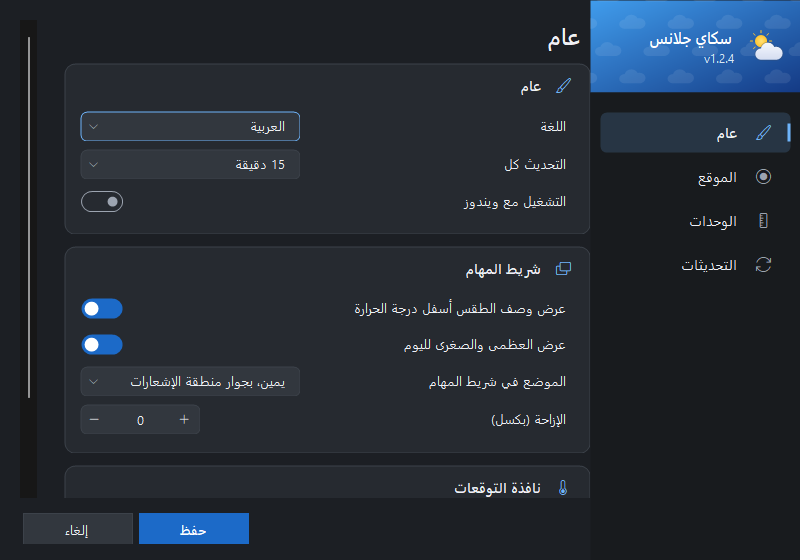
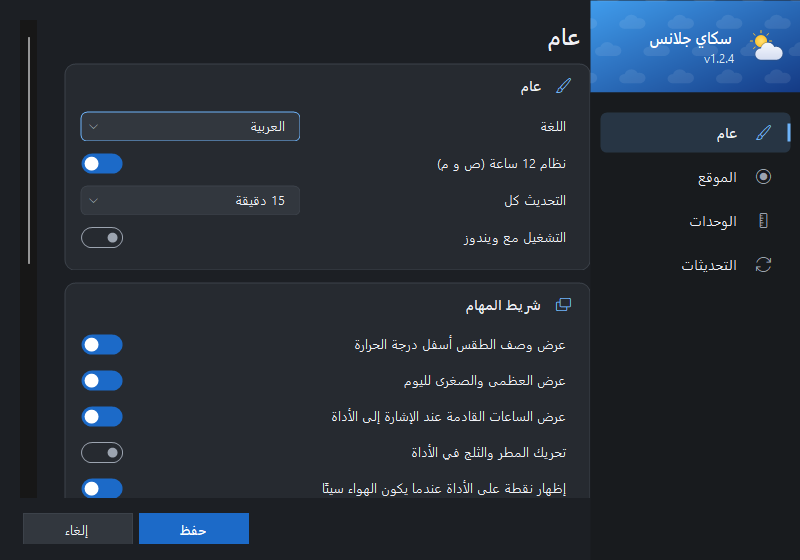
README and changelog for the new features, with fresh screenshots

diff --git a/README.md b/README.md
@@ -29,16 +29,21 @@ with Celsius or Fahrenheit and five wind units. English and Arabic. No account, 
 
 - **Lives in the taskbar.** A weather picture, the temperature, today's high and low and the condition, embedded next to the notification area or at the left end. It takes the nearest free spot on either side, so it never covers other taskbar tools such as Data Tide, Salaty Reminder or TrafficMonitor, hides with the taskbar in fullscreen apps and comes back after Explorer restarts.
 - **No tray icon.** Everything lives in the widget: right-click it for every command, and run the exe again to open the forecast. Update messages arrive as Windows notifications.
-- **Forecast flyout.** Click the widget for the sky right now (with "feels like", today's high and low), humidity, wind and direction, UV index, rain chance, sunrise and sunset, a 24-hour temperature chart with rain chances, and a 7-day forecast with each day's range.
+- **Forecast flyout.** Click the widget for the sky right now (with "feels like", today's high and low, and how much warmer or colder it is than this time yesterday), humidity, wind and direction, UV index, rain chance, sunrise and sunset, a 24-hour temperature chart with rain chances, and a 7-day forecast with each day's range.
+- **Hover card.** Rest the mouse on the widget for the next six hours, the wind and the air, without opening anything.
+- **Rain alerts.** A notification when rain is about to start or stop where you are, from Open-Meteo's 15-minute forecast (native in Europe and North America, worked out from the hourly model elsewhere).
+- **Air quality and pollen.** The European air quality index with its band, and the pollen level in Europe. A coloured dot on the widget when the air turns poor.
+- **Moon and golden hour.** Tonight's moon as it looks and how much of it is lit, and when the next golden hour starts, both worked out on your PC.
 - **Your location, automatically.** Uses Windows location when it's on, otherwise a rough location from your IP address, and checks again every few hours so a laptop follows you. Or search for any city in the world and keep it.
 - **Several cities.** Save as many cities as you like and switch between them by clicking the place name in the flyout, with the arrow keys, from the right-click menu, or by scrolling over the widget. Each city keeps its own cached forecast.
-- **Weather on any date.** A calendar window shows any day from 1 January 1940 up to 15 days ahead for any of your cities: high and low, precipitation, wind, sunrise and sunset, and the day in three-hour steps. Click a day in the 7-day forecast to open it there.
+- **Weather on any date.** A calendar window shows any day from 1 January 1940 up to 15 days ahead for any of your cities: high and low, precipitation, wind, sunrise and sunset, and the day hour by hour with its rain. Click a day in the 7-day forecast to open it there.
 - **Season.** The flyout shows the season at the place shown (it flips south of the equator) and how many days are left in it.
 - **Hottest and coldest right now.** The flyout shows the hottest and coldest of 32 places around the world that usually hold the records, from Death Valley and Kuwait to Vostok Station and Oymyakon.
 - **The time where the weather is.** A city in another time zone shows its own clock and its own "now".
 - **Units.** Celsius or Fahrenheit; km/h, m/s, mph, knots or Beaufort; millimetres or inches. Switch the temperature unit straight from the right-click menu.
 - **Works offline.** The last forecast is kept on disk and shown until the next one arrives; refreshes retry with a growing delay.
-- **English and Arabic.** Full right-to-left layout in Arabic. Light and dark theme follow Windows.
+- **Gentle animation.** Rain and snow can drift in the widget's picture (off by default).
+- **English and Arabic.** Full right-to-left layout in Arabic. Light and dark theme follow Windows. A 12-hour or 24-hour clock, like Windows by default.
 - **Auto-updates.** Checks GitHub Releases, verifies the download's SHA-256 and updates itself in place.
 - **Light and native.** One small Windows app, no Electron, no ads, no account.
 
@@ -64,7 +69,11 @@ Weather alerts are not included: Open-Meteo, the free keyless service Sky Glance
     <td align="center"><img src="docs/screenshots/calendar-ar.png" width="440"><br><sub>Calendar in Arabic</sub></td>
   </tr>
   <tr>
+    <td align="center"><img src="docs/screenshots/hover-en-dark.png" width="300"><br><sub>Hover card with rain about to start</sub></td>
     <td align="center"><img src="docs/screenshots/widget-menu-en-dark.png" width="194"><br><sub>Right-click menu on the widget</sub></td>
+  </tr>
+  <tr>
+    <td align="center"><img src="docs/screenshots/settings-0-en.png" width="440"><br><sub>Settings: hover card, animation, alerts and more</sub></td>
     <td align="center"><img src="docs/screenshots/settings-3-en.png" width="440"><br><sub>Updates from GitHub, checked against SHA-256</sub></td>
   </tr>
 </table>
@@ -85,8 +94,9 @@ Sky Glance has no account, analytics or tracking. It only goes online for these 
 
 | Service | When | What it sends |
 | --- | --- | --- |
-| [Open-Meteo Forecast](https://open-meteo.com/en/docs) | Every refresh (every 15 minutes by default), and for recent or coming dates in the calendar | The coordinates of the city shown or picked |
+| [Open-Meteo Forecast](https://open-meteo.com/en/docs) | Every refresh (every 15 minutes by default), and for recent or coming dates in the calendar. With rain alerts on and another city shown, your own location is fetched too | The coordinates of the city shown or picked, and of your location for rain alerts |
 | [Open-Meteo Forecast](https://open-meteo.com/en/docs) | Every hour, for "hottest and coldest right now" (can be turned off) | The fixed coordinates of 32 watched places, nothing about you |
+| [Open-Meteo Air Quality](https://open-meteo.com/en/docs/air-quality-api) | Every hour, for the city shown (can be turned off) | The coordinates of the city shown |
 | [Open-Meteo Historical Weather](https://open-meteo.com/en/docs/historical-weather-api) | When you open a date more than 90 days ago | The coordinates of the city you picked and the date |
 | [Open-Meteo Geocoding](https://open-meteo.com/en/docs/geocoding-api) | When you search for a city | The search text |
 | [BigDataCloud](https://www.bigdatacloud.com/) | Auto location, to name the place Windows found | Your coordinates |
@@ -107,10 +117,12 @@ Your settings, your cities and their last forecasts stay in `%APPDATA%\SkyGlance
 sky-glance/
 ├── src/
 │   ├── SkyGlance.Core/           Logic with no Windows or UI dependencies
+│   │   ├── Air/                  Air quality index, bands and pollen levels
 │   │   ├── Places/               Saved cities and switching between them
 │   │   ├── Seasons/              Meteorological seasons by hemisphere
+│   │   ├── Sky/                  Moon phase, sun height and golden hours
 │   │   ├── Units/                Temperature, wind and precipitation units
-│   │   ├── Weather/              Open-Meteo requests and parsers, weather codes, forecast and day models
+│   │   ├── Weather/              Open-Meteo requests and parsers, weather codes, forecast and day models, rain alerts
 │   │   └── World/                Hottest and coldest of the watched places
 │   └── SkyGlance/                The Windows app
 │       ├── Assets/               Icon
@@ -125,9 +137,9 @@ sky-glance/
 │           ├── Flyout/           The forecast popup
 │           ├── Settings/         The settings window
 │           ├── Styling/          Theme colours and the weather drawings
-│           └── Taskbar/          The widget inside the taskbar
+│           └── Taskbar/          The widget inside the taskbar and its hover card
 ├── tests/
-│   └── SkyGlance.Core.Tests/     xUnit tests, with a real Open-Meteo answer as a fixture
+│   └── SkyGlance.Core.Tests/     xUnit tests, with real Open-Meteo answers as fixtures
 ├── docs/                         README images
 ├── Directory.Build.props         Version and settings shared by every project
 ├── global.json                   Pinned .NET SDK
@@ -156,7 +168,7 @@ Developer switches:
 
 | Switch | Purpose |
 | --- | --- |
-| `--shots DIR` | Render the widget, flyout, settings pages and every weather picture from demo data, offline |
+| `--shots DIR` | Render the widget, flyout, hover card, menus, settings pages and every weather picture from demo data, offline |
 | `--render-icon DIR` | Regenerate `app.ico` and a 512 px PNG |
 
 ## Releasing
@@ -193,6 +205,8 @@ The [release workflow](.github/workflows/release.yml) runs the tests, builds the
 - درجة مئوية أو فهرنهايت، وخمس وحدات لسرعة الرياح
 - عدة مدن مع التبديل بينها، والطقس في أي يوم منذ 1940
 - الفصل الحالي، وأشد الأماكن حرًا وبردًا على الأرض الآن
+- تنبيه عندما يوشك المطر أن يبدأ أو يتوقف، وبطاقة بالساعات القادمة عند الإشارة إلى الأداة
+- جودة الهواء وحبوب اللقاح، وطور القمر والساعة الذهبية، والمقارنة بطقس أمس
 - لا تغطي الأدوات الأخرى في شريط المهام مثل داتا تايد وصلاتي
 - واجهة عربية كاملة من اليمين إلى اليسار، ووضع داكن وفاتح يتبع ويندوز
 - بلا حساب ولا مفتاح API، وتحديث تلقائي آمن من GitHub

diff --git a/CHANGELOG.md b/CHANGELOG.md
@@ -3,6 +3,18 @@
 All notable changes to Sky Glance are listed here.
 The format follows [Keep a Changelog](https://keepachangelog.com/en/1.1.0/) and versions follow [Semantic Versioning](https://semver.org/).
 
+## [Unreleased]
+
+### Added
+- Rain alerts: a notification when rain is about to start or stop at your location, from Open-Meteo's 15-minute forecast. It names the place and the time, and one shower raises one alert.
+- A hover card: rest the mouse on the widget for the next six hours, the wind and the air.
+- Air quality: the European air quality index and its band in the flyout, the pollen level in Europe, and a coloured dot on the widget when the air turns poor.
+- Moon and golden hour tiles: tonight's moon as it looks and how much of it is lit, and when the next golden hour starts, worked out on your PC.
+- Compared with yesterday: the flyout says how much warmer or colder it is than at this hour yesterday.
+- The calendar shows a day hour by hour, with rain chances for forecast days and the rain that fell for past ones.
+- Rain and snow can drift in the widget's picture (off by default).
+- A 12-hour clock with AM and PM, on by default when Windows uses one.
+
 ## [1.2.4] - 2026-11-17
 
 ### Fixed
